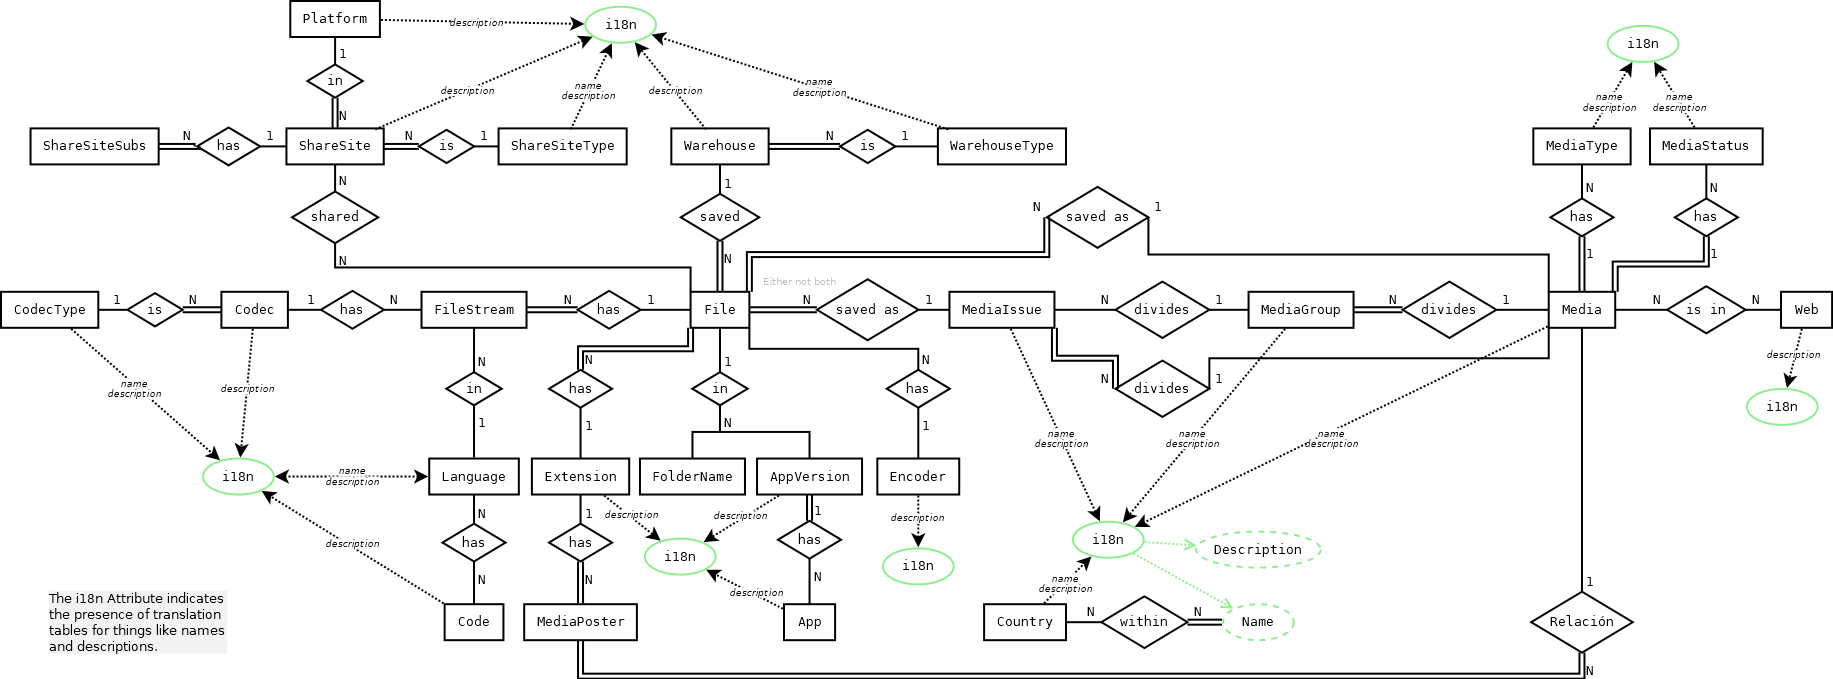
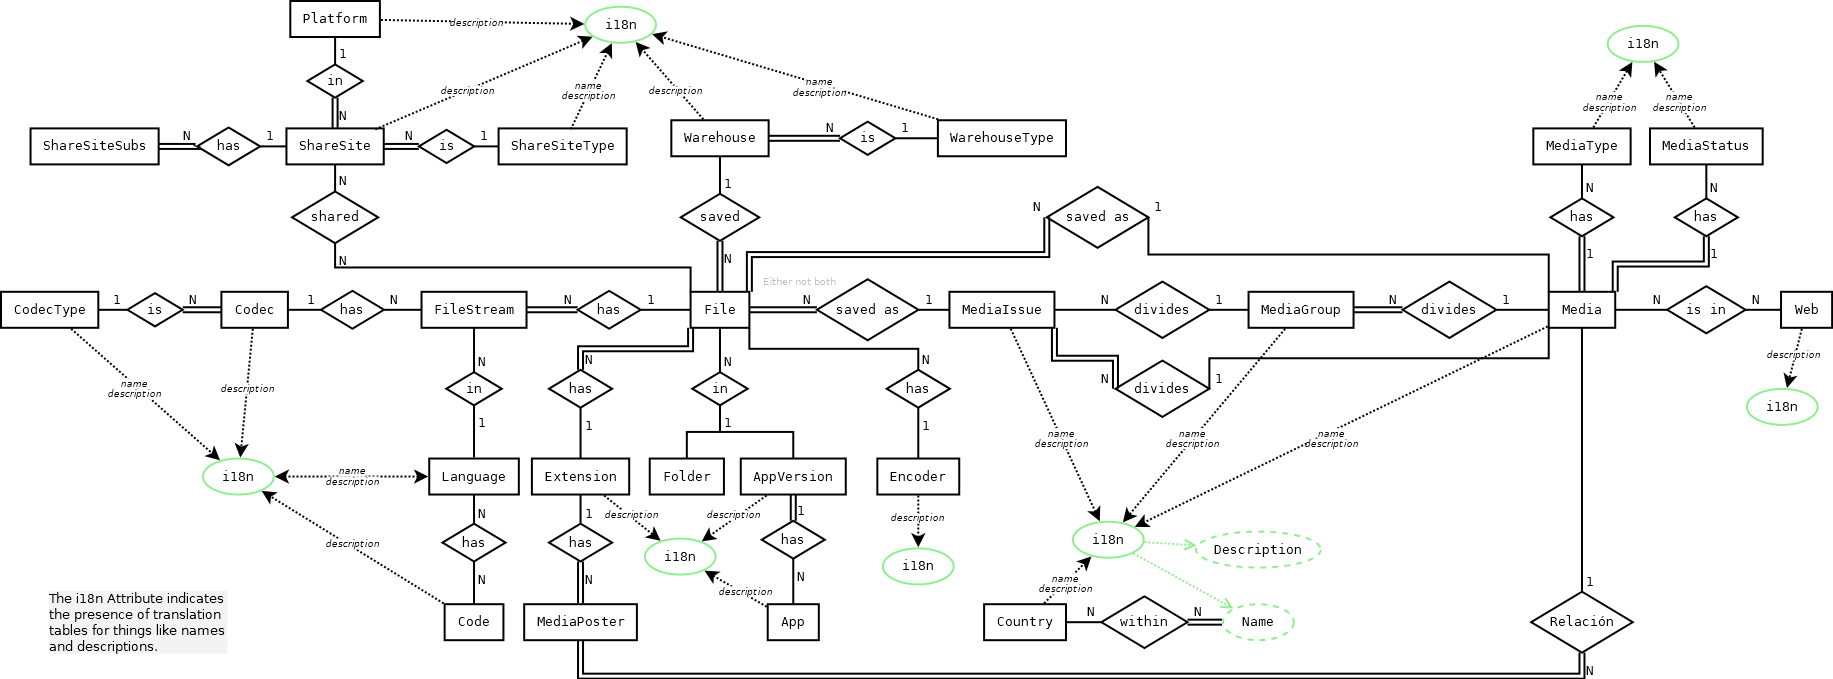
Improvement and bug fixes
Fixed bugs in the file object where it was mandatory to have a foldername
Changed FolderName to Folder
Changed Folder attribute name to path
Made these changes in the diagrams too

diff --git a/src/model/entity/file.py b/src/model/entity/file.py
@@ -3,13 +3,13 @@
 # ------------------------------------------------------------------------------
 #+ Autor:  	Ran#
 #+ Creado: 	2023/01/05 18:53:33.927294
-#+ Editado:	2023/02/17 20:42:04.461451
+#+ Editado:	2023/02/24 15:48:55.203188
 # ------------------------------------------------------------------------------
 from dataclasses import dataclass, field
 from typing import Optional
 
 from src.utils import Config
-from src.model.entity import BaseEntity, Warehouse, FolderName, Media, MediaIssue
+from src.model.entity import BaseEntity, Warehouse, Folder, Media, MediaIssue
 from src.model.entity import Extension, Encoder, AppVersion
 # ------------------------------------------------------------------------------
 
@@ -23,7 +23,6 @@ class File(BaseEntity):
     name: str
     extension: Extension
     warehouse: Warehouse
-    folder: FolderName
     title: str
     nb_streams: int
     nb_programs: int
@@ -33,6 +32,7 @@ class File(BaseEntity):
     bit_rate: int
     probe_score: int
     creation_ts: str
+    folder: Optional[Folder] = field(default=None)
     encoder: Optional[Encoder] = field(default=None)
     app_version: Optional[AppVersion] = field(default=None)
     media: Optional[Media] = field(default=None)

diff --git a/src/model/entity/folder.py b/src/model/entity/folder.py
@@ -3,7 +3,7 @@
 # ------------------------------------------------------------------------------
 #+ Autor:  	Ran#
 #+ Creado: 	2023/01/05 00:04:14.716403
-#+ Editado:	2023/02/17 20:37:47.040406
+#+ Editado:	2023/02/24 15:48:21.029863
 # ------------------------------------------------------------------------------
 from dataclasses import dataclass, field
 from typing import Optional
@@ -15,10 +15,10 @@ from src.model.entity import BaseEntity
 
 # ------------------------------------------------------------------------------
 @dataclass
-class FolderName(BaseEntity):
+class Folder(BaseEntity):
     """Entity Object"""
     table_name: str = field(init=False, repr=False,
-                            default=Config().get_table_name('FolderName'))
-    name: str
+                            default=Config().get_table_name('Folder'))
+    path: str
     active: Optional[int] = field(default=1)
 # ------------------------------------------------------------------------------

diff --git a/src/model/entity/country.py b/src/model/entity/country.py
@@ -3,7 +3,7 @@
 # ------------------------------------------------------------------------------
 #+ Autor:  	Ran#
 #+ Creado: 	2023/01/05 00:01:54.400579
-#+ Editado:	2023/02/17 20:55:38.347382
+#+ Editado:	2023/02/24 15:24:53.861285
 # ------------------------------------------------------------------------------
 from dataclasses import dataclass, field
 from typing import Optional
@@ -20,6 +20,8 @@ class Country(BaseEntity):
     table_name: str = field(init=False, repr=False,
                             default=Config().get_table_name('Country'))
     name: str
+    nation: Optional[int] = field(default=None)
+    state: Optional[int] = field(default=None)
     kingdom: Optional[int] = field(default=None)
     active: Optional[int] = field(default=1)
 

diff --git a/src/model/entity/__init__.py b/src/model/entity/__init__.py
@@ -3,7 +3,7 @@
 # ------------------------------------------------------------------------------
 #+ Autor:  	Ran#
 #+ Creado: 	2023/01/21 15:13:42.859161
-#+ Editado:	2023/02/23 17:28:11.138452
+#+ Editado:	2023/02/24 15:49:27.591356
 # ------------------------------------------------------------------------------
 from .base_entity import BaseEntity
 from .sequence import Sequence
@@ -12,7 +12,7 @@ from .language import Language
 from .platform import Platform
 from .encoder import Encoder
 from .extension import Extension
-from .folder_name import FolderName
+from .folder import Folder
 from .warehouse_type import WarehouseType
 from .codec_type import CodecType
 from .code import Code
